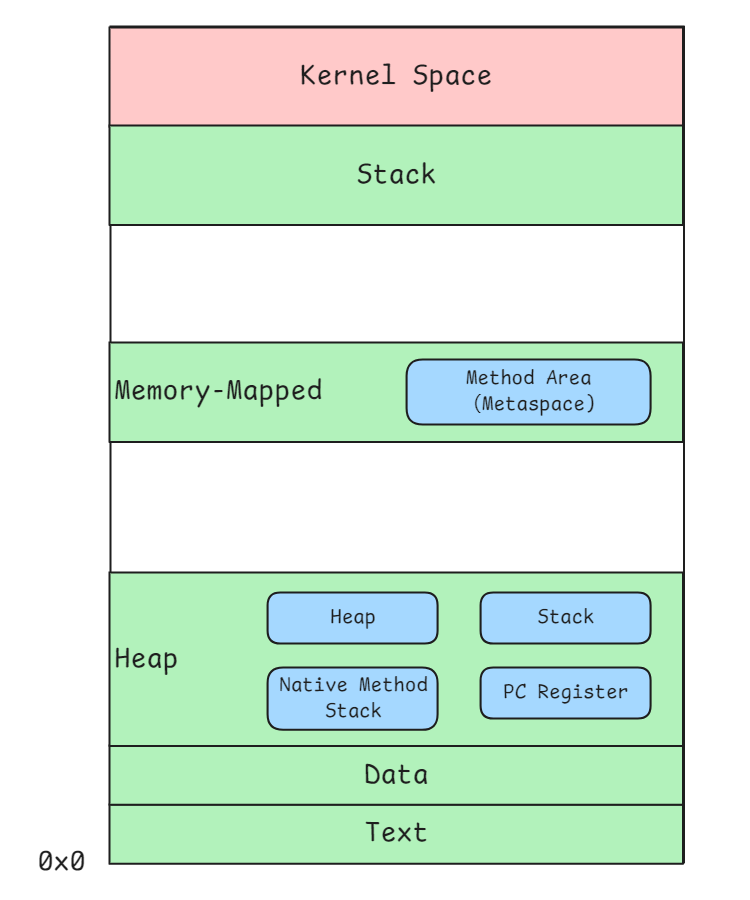
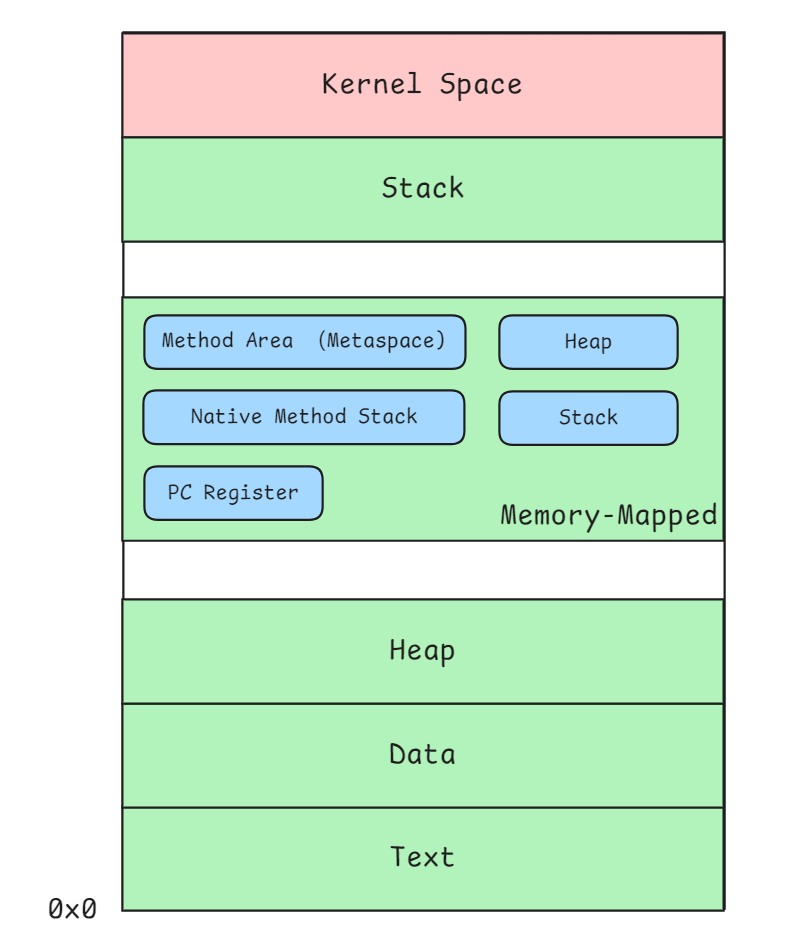
Add foundational memory allocation classes.

Changed region(s): [[0.0307, 0.0, 0.92, 0.9644], [0.46, 0.1867, 0.5827, 0.2178]]

diff --git a/src/main/java/com/avaya/jvm/hotspot/share/memory/MetaspaceObj.java b/src/main/java/com/avaya/jvm/hotspot/share/memory/MetaspaceObj.java
@@ -1,0 +1,4 @@
+package com.avaya.jvm.hotspot.share.memory;
+
+public class MetaspaceObj extends AllocatedObj{
+}

diff --git a/src/main/java/com/avaya/jvm/hotspot/share/memory/ResourceObj.java b/src/main/java/com/avaya/jvm/hotspot/share/memory/ResourceObj.java
@@ -1,0 +1,4 @@
+package com.avaya.jvm.hotspot.share.memory;
+
+public class ResourceObj extends AllocatedObj{
+}

diff --git a/src/main/java/com/avaya/jvm/hotspot/share/memory/AllStatic.java b/src/main/java/com/avaya/jvm/hotspot/share/memory/AllStatic.java
@@ -1,0 +1,4 @@
+package com.avaya.jvm.hotspot.share.memory;
+
+public class AllStatic extends AllocatedObj{
+}

diff --git a/src/main/java/com/avaya/jvm/hotspot/share/memory/CHeapObj.java b/src/main/java/com/avaya/jvm/hotspot/share/memory/CHeapObj.java
@@ -1,0 +1,4 @@
+package com.avaya.jvm.hotspot.share.memory;
+
+public class CHeapObj extends AllocatedObj{
+}

diff --git a/src/main/java/com/avaya/jvm/hotspot/share/memory/StackObj.java b/src/main/java/com/avaya/jvm/hotspot/share/memory/StackObj.java
@@ -1,0 +1,4 @@
+package com.avaya.jvm.hotspot.share.memory;
+
+public class StackObj extends AllocatedObj{
+}

diff --git a/src/main/java/com/avaya/jvm/hotspot/share/memory/ValueObj.java b/src/main/java/com/avaya/jvm/hotspot/share/memory/ValueObj.java
@@ -1,0 +1,4 @@
+package com.avaya.jvm.hotspot.share.memory;
+
+public class ValueObj extends AllocatedObj{
+}

diff --git a/src/main/java/com/avaya/jvm/hotspot/share/memory/AllocatedObj.java b/src/main/java/com/avaya/jvm/hotspot/share/memory/AllocatedObj.java
@@ -1,0 +1,4 @@
+package com.avaya.jvm.hotspot.share.memory;
+
+public class AllocatedObj {
+}

diff --git a/doc/06 - memory layout.md b/doc/06 - memory layout.md
@@ -77,10 +77,6 @@ It is usually marked as read-only and may be shared among processes running the 
 
 When a Java program runs, the JVM manages its memory using several well-defined regions. These regions are designed for specific purposes (some are shared among all threads, while others are private to each thread).
 
-- The **method area** is typically located in the memory-mapped region of the JVM process.
-
-- The **heap**, **stack**, **native method stack**, and **PC register** are allocated from the JVM's heap memory (memory obtained from the OS).
-
 <img src="img/6-2.png" alt="jvm_memory_layout" width="380">
 
 ### Method Area
